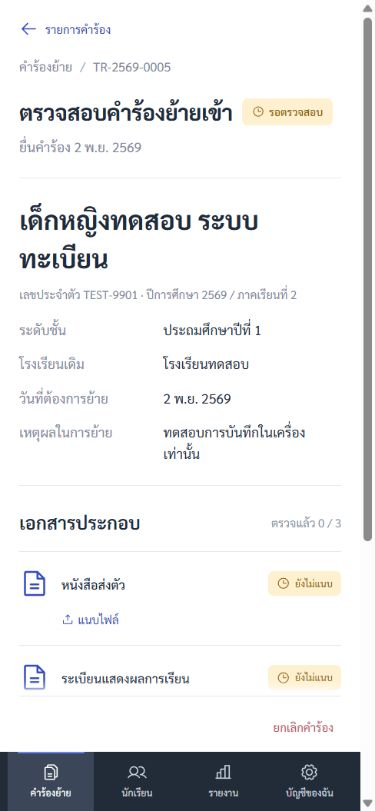
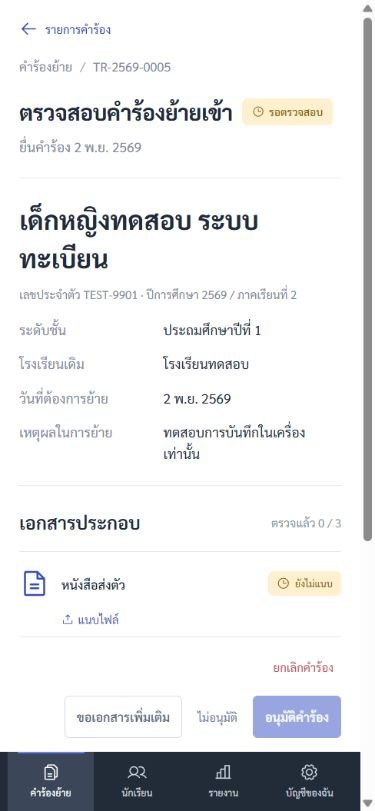
Keep mobile transfer actions above fixed navigation and record live verification

diff --git a/src/transfer.css b/src/transfer.css
@@ -1246,3 +1246,8 @@ dialog::backdrop {
     margin-right: 15px;
   }
 }
+@media (max-width: 620px) {
+  .detail-footer {
+    bottom: 62px;
+  }
+}

diff --git a/design-qa.md b/design-qa.md
@@ -13,7 +13,9 @@ final result: passed
 ## Comparison history
 
 1. Initial browser capture showed the same three-column composition, but additional production metadata and upload/verification controls pushed the action footer to y=1158, below the 1024px viewport. Classified P2 (primary actions outside the first screen). Fixed by moving student code/year/term into a compact metadata line, reducing section/row gaps and making the action footer sticky. Retained all required production controls.
-2. Post-fix capture `implementation-desktop.png` was compared with the reference in `design-comparison.png`. Document checklist, note field, and primary footer are visible together; major column proportions, alignment, surface hierarchy, indigo actions, and selected inbox treatment match the selected direction. No actionable P0/P1/P2 findings remain.
+2. Post-fix capture `implementation-desktop.png` was compared with the reference in `design-comparison.png`. Document checklist, note field, and primary footer are visible together; major column proportions, alignment, surface hierarchy, indigo actions, and selected inbox treatment match the selected direction. Desktop comparison has no remaining actionable P0/P1/P2 findings.
+
+3. A subsequent mobile screenshot exposed the sticky action footer beneath the fixed 62px bottom navigation (P2). Set the mobile footer bottom offset to 62px, then re-captured and checked the primary action bounds against the navigation. The revised evidence is in `docs/implementation-mobile.png`. No actionable P0/P1/P2 findings remain.
 
 ## Required fidelity surfaces
 
@@ -40,7 +42,7 @@ Backend suite: 317 tests passed, including registration idempotency/duplicates, 
 
 ## Limits / follow-up polish
 
-- Production school sign-in and Google Drive upload were not exercised with a real school account. Live page/API availability and deployment are checked separately; no synthetic records are written to production.
+- The deployed page was opened with the existing school session: the authorized account gate, live empty transfer list and real dashboard summary all loaded successfully. Google Drive uploads and approval of real student records were not exercised; no synthetic records were written to production.
 - P3: source mock uses slightly larger secondary text and fewer controls. The implemented density accommodates the requested production workflow while preserving its hierarchy.
 - Registration approvals update the request ledger/dashboard totals; the existing grades system retains ownership of enrollment/roster changes.
 
